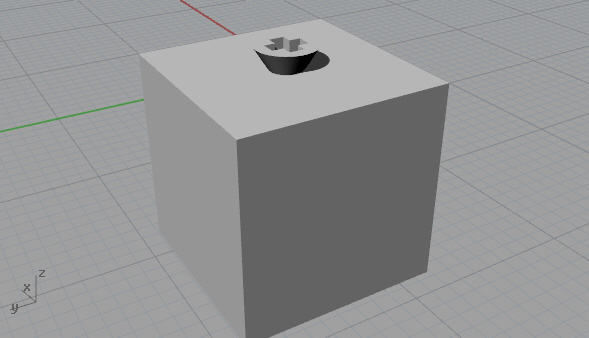
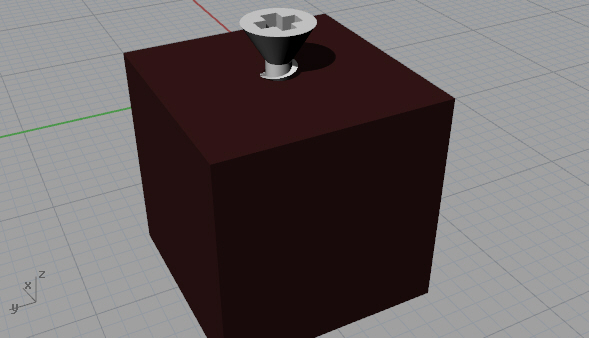
finish screw

diff --git a/itp/3d_printing/things-that-fit-together.rst b/itp/3d_printing/things-that-fit-together.rst
@@ -65,9 +65,11 @@ Our assignment was to make two things that fit together, so I need to insert the
   :width: 100%
   :align: center
 
-I could easily make a hole for the screw's shaft but Rhino refused to use the threads in a boolean operation. I kept getting an error message indicating that the boolean operation failed. I don't understand what the problem was. The Check command tells me the "Rhino polysurface object is valid." The thread's object type is a "closed polysurface."
+Getting the boolean operations to work for this object was a non-trivial matter. Rhino's Boolean Difference command didn't like operating on the screw's threads. I kept getting an error message indicating that the boolean operation failed. I don't understand what the problem was. The Check command tells me the "Rhino polysurface object is valid." The thread's object type is a "closed polysurface." The Volume command gives me a volume.
 
-The below image shows the wood with the hole in it. I would like to see the thread groves in the hole as well. I will ask our instructor about this at our next class.
+After much fiddling I discovered that when I used the threads with the Boolean Intersection command, Rhino would do what I expected the Boolean Difference command to do. I don't understand but that's what happened. Once I got that to work there were other complications with the screw's shaft. After more fiddling I got that to work too. It wasn't easy but it seems that when Rhino doesn't want to do something, there's value in experimenting to find an alternative approach.
+
+The below image shows the wood with the hole in it. Notice the thread groves in the hole.
 
 .. image:: /images/itp/3d_printing/week2/screw8.jpg
   :width: 100%
@@ -76,5 +78,17 @@ The below image shows the wood with the hole in it. I would like to see the thre
 And with the Ghosted renderer, which I think looks better:
 
 .. image:: /images/itp/3d_printing/week2/screw9.jpg
+  :width: 100%
+  :align: center
+
+Here's a closer look at the threads I worked so hard to create. Gaze into the abyss of a screw hole:
+
+.. image:: /images/itp/3d_printing/week2/screw10.jpg
+  :width: 100%
+  :align: center
+
+And for fun, here's a rendered view of the screw from inside the hole.
+
+.. image:: /images/itp/3d_printing/week2/screw11.jpg
   :width: 100%
   :align: center
